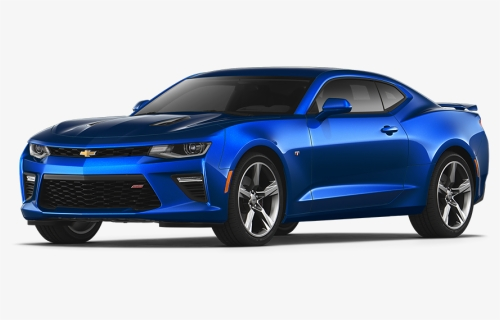
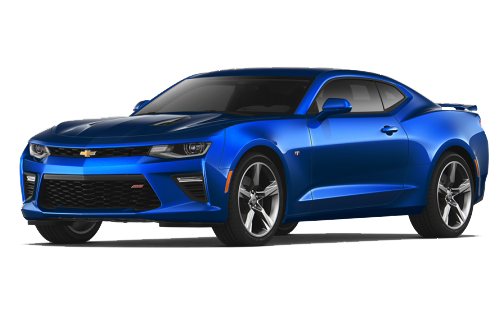
Ajustes Contacto
Foto sin fondo, retoques

diff --git a/src/main/resources/static/css/contacto.css b/src/main/resources/static/css/contacto.css
@@ -1,7 +1,20 @@
 body{
     font-family: 'Questrial', sans-serif;
-    margin: 26px;
+    margin: 0px;
 }
+
+main{
+    padding-top: 50px;
+}
+.texto_principal h1{
+    color: rgb(50, 50, 50);
+    font-style:inherit;
+    text-shadow: 2.2px 1.7px 0px white;
+    font-size: 3em;
+    padding: 0px 20px;
+    text-align: center;
+}
+
 
 /*-------------------------------------HEADER-------------------------------------*/
 
@@ -19,6 +32,7 @@ header{
     background-color: rgb(245, 245, 245);
     justify-content: center;
     height: 200px;
+    margin-bottom: 100px;
     box-shadow: 0px 1px 10px 0px #0531358e;
 }
 header .container{
@@ -124,6 +138,10 @@ nav li a:hover {
 	padding-left: 0%;
     padding-right: 5px;
 }
+main{
+    max-width:  1400px;
+    margin: auto;
+}
 
  /* - - - - - ESCRITORIO - - - -- */
 @media (min-width: 720px){
@@ -150,6 +168,11 @@ nav li a:hover {
 
 }
 /*--------------------------------------------*/
+main{
+    margin-left: 30px;
+    margin-right: 30px;
+    
+}
 
 h1 {
     text-align: center;    
@@ -172,9 +195,12 @@ p {
 }
 
 .foto {
-    width: 50%;
     padding: 10px 20px 10px;
     margin-top: 70px;
+}
+.foto img{
+    display: flex;
+    justify-content: center;
 }
 
 .cuestionario label{
@@ -245,7 +271,8 @@ p {
 
 /*--------------------------------------------------------------------------*/
 footer{
-    background: url(/busCAR/src/main/resources/static/img/bg.jpg);
+    margin-top: 100px;
+    background-color: #000;
     position: relative;
 }
 footer img{

diff --git a/src/main/resources/templates/contacto.html b/src/main/resources/templates/contacto.html
@@ -56,10 +56,11 @@
     </header>
 
     <main>
-        <section>        
+
+        <section class="texto_principal">        
             <h1>¿Necesitás ayuda?</h1>
             <h1>¡Contactános!</h1>
-            <p>Hola! Estamos totalmente dispuesto a ayudarte en lo que necesites y disiparte todas las dudas que tengas. Envianos un mensaje y nos pondremos en contacto contigo!</p>
+            <p>Hola! Estamos totalmente dispuestos a ayudarte en lo que necesites y disiparte todas las dudas que tengas. Envianos un mensaje y nos pondremos en contacto contigo!</p>
         </section>
 
         <section class="contactoPrivado">         
@@ -102,6 +103,7 @@
             <p>Nuestra sucursal se encuentra en el centro de la bella Ciudad de Mendoza. Y ademas tenemos una sucursal en la ciudad de Santa Fe Capital</p>
             <iframe src="https://www.google.com/maps/embed?pb=!1m18!1m12!1m3!1d6701.413081574724!2d-68.86920570926095!3d-32.87948303434326!2m3!1f0!2f0!3f0!3m2!1i1024!2i768!4f13.1!3m3!1m2!1s0x967e093ec45179bf%3A0x205a78f6d20efa3a!2sMendoza%2C%20Capital%2C%20Mendoza!5e0!3m2!1ses-419!2sar!4v1653348898390!5m2!1ses-419!2sar"  style="border:0;" allowfullscreen="" loading="lazy" referrerpolicy="no-referrer-when-downgrade" class="mapa"></iframe>
         </section>
+          
     </main>    
 
     <footer>
